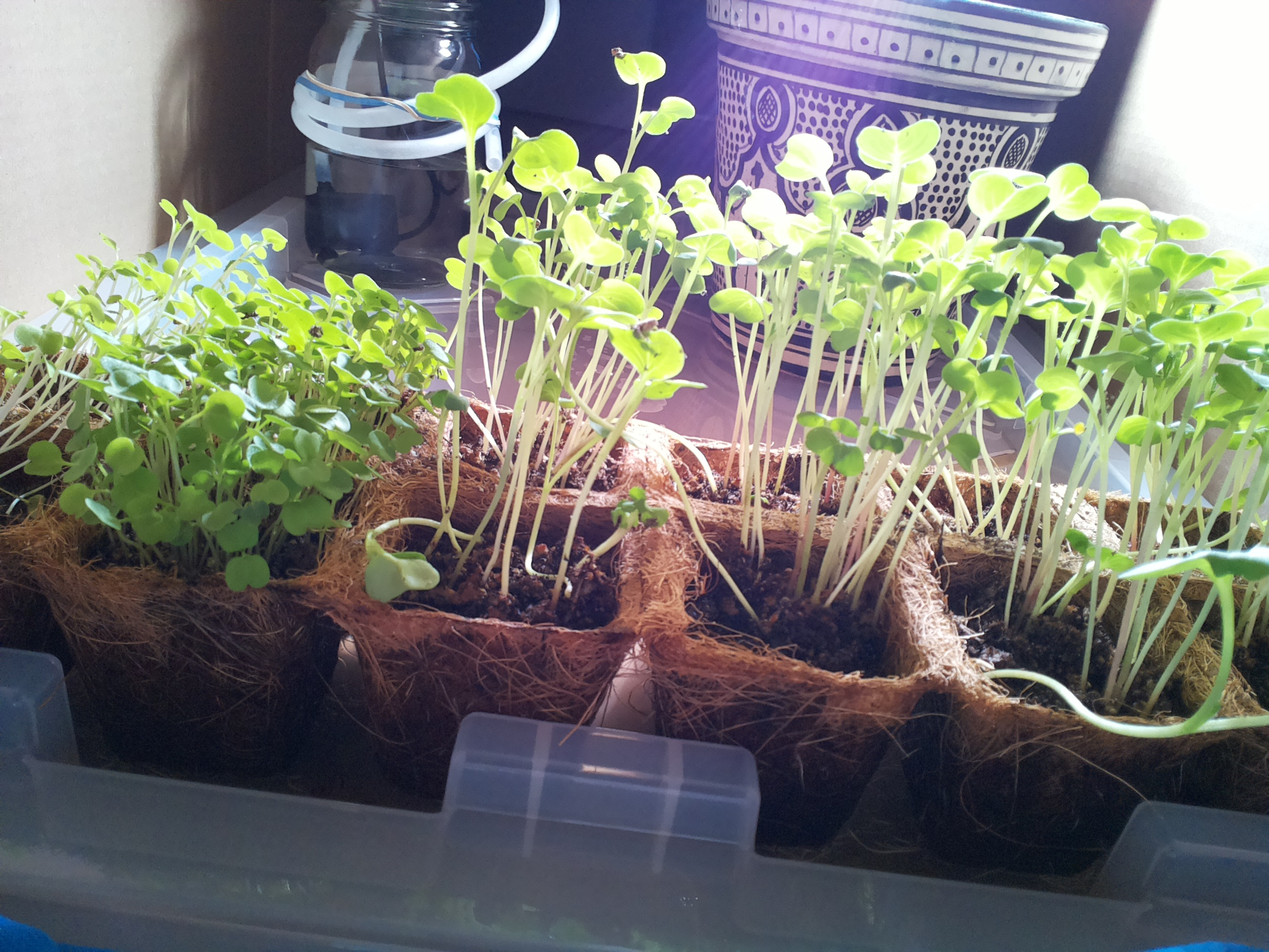
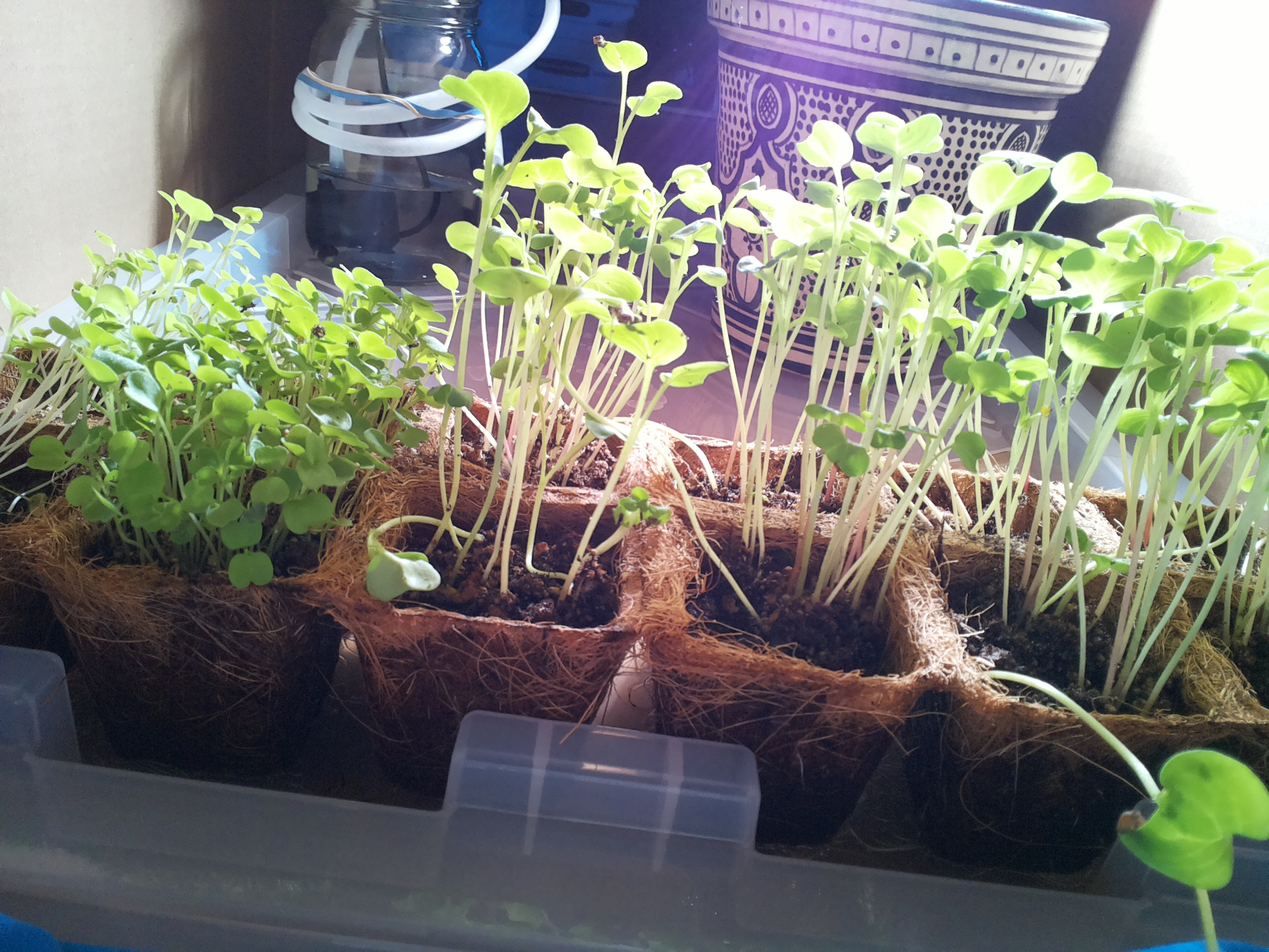
mirror sync 2026-09-04 07:20

diff --git a/home/bubbles/farmer-claude/JOURNAL.md b/home/bubbles/farmer-claude/JOURNAL.md
@@ -242,3 +242,11 @@
 - Lamp: on — correct for photoperiod.
 - Watering: 4s pulse per standing order 2 (8s of 60s daily cap used; water.py OK, pump plug verified OFF after). Post-pulse photo shows wet sheen on the lid behind the tray — bottom-feed path working. Jar level held.
 - No changes to standing orders. Next: 07:12 pulse unless surfaces look dark.
+
+### 2026-09-04 07:12 — morning check-in (cron)
+- Photo: seedlings vigorous in all 12 cells (day 11) — tall, leggy, cotyledons broad, turgid, and green; true leaves developing; a couple of seed hulls still on cotyledon tips (normal). No wilting, mold, pests, or tipping. Tube in place over the lid.
+- Jar: dark water still high in the glass (foliage partly blocks the zoomed view, but level matches recent days) — refill holding, pump body well covered.
+- Soil: mixed — dark damp centers, drier crumbly spots with perlite showing; coir walls pale. Not uniformly dark → pulse warranted.
+- Lamp: on — correct for photoperiod.
+- Watering: 4s pulse per standing order 2 (4s of 60s daily cap used; water.py OK, pump plug verified OFF after).
+- No changes to standing orders. Next: 13:07 observe-only; 19:22 pulse unless surfaces look dark.
